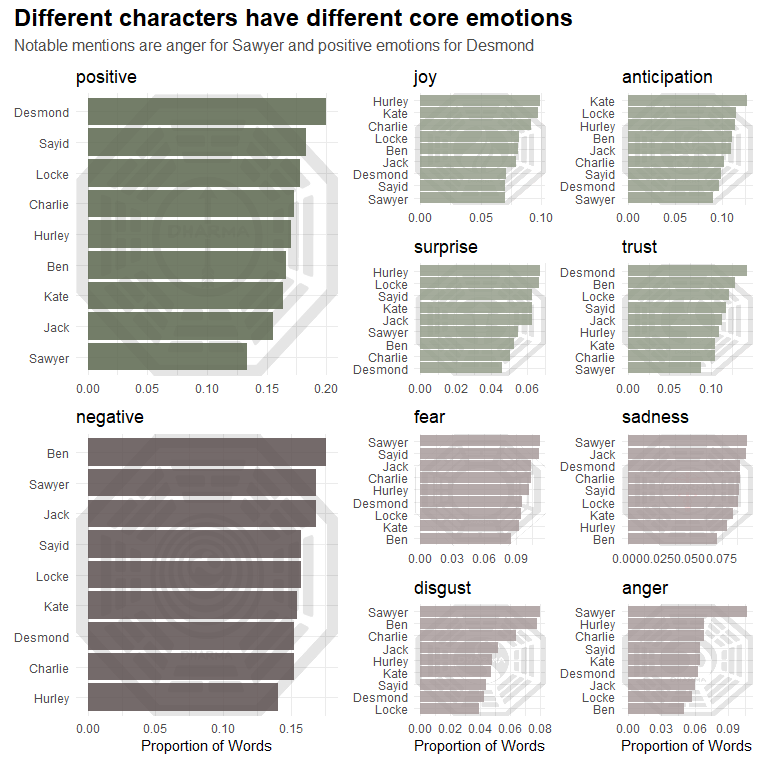
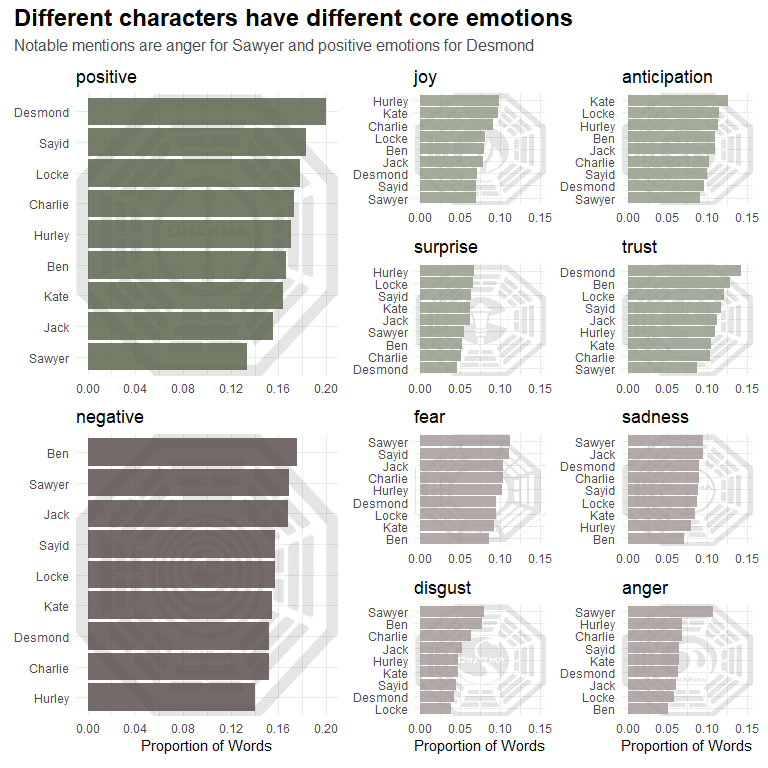
add uniform x axis to plot 5

diff --git a/README.md b/README.md
@@ -227,16 +227,19 @@ pos_color <- "#959e8b"
 neg_color_main <- "#5c5050"
 neg_color <- "#a89b9b"
 
-plot_top_lines(plot_6_data, prop, character, sentiment, "positive", "images/the_arrow_alpha_10.png", color = pos_color_main) + 
-    (plot_top_lines(plot_6_data, prop, character, sentiment, "joy", "images/the_flame_alpha_10.png", color = pos_color) + scale_x_continuous(breaks = c(0, 0.05, 0.1))) +
-    plot_top_lines(plot_6_data, prop, character, sentiment, "anticipation", "images/the_hydra_alpha_10.png", color = pos_color) +
-    plot_top_lines(plot_6_data, prop, character, sentiment, "surprise", "images/the_lamp_post_alpha_10.png", color = pos_color) +
-    plot_top_lines(plot_6_data, prop, character, sentiment, "trust", "images/the_looking_glass_alpha_10.png", color = pos_color) +
-    plot_top_lines(plot_6_data, prop, character, sentiment, "negative", "images/the_orchid_alpha_10.png", "Proportion of Words", color = neg_color_main) +
-    plot_top_lines(plot_6_data, prop, character, sentiment, "fear", "images/the_pearl_alpha_10.png", color = neg_color) +
-    plot_top_lines(plot_6_data, prop, character, sentiment, "sadness", "images/the_staff_alpha_10.png", color = neg_color) +
-    plot_top_lines(plot_6_data, prop, character, sentiment, "disgust", "images/the_swan_alpha_10.png", "Proportion of Words", color = neg_color) +
-        plot_top_lines(plot_6_data, prop, character, sentiment, "anger", "images/the_tempest_alpha_10.png", "Proportion of Words", color = neg_color) +
+s_main  <- scale_x_continuous(breaks = c(0, 0.04, 0.08, 0.12, 0.16, 0.2), limits = c(0, 0.2))
+s <- scale_x_continuous(breaks = c(0, 0.05, 0.1, 0.15), limits = c(0, 0.15))
+
+(plot_top_lines(plot_6_data, prop, character, sentiment, "positive", "images/the_arrow_alpha_10.png", color = pos_color_main) + s_main) + 
+    (plot_top_lines(plot_6_data, prop, character, sentiment, "joy", "images/the_flame_alpha_10.png", color = pos_color) + s) +
+    (plot_top_lines(plot_6_data, prop, character, sentiment, "anticipation", "images/the_hydra_alpha_10.png", color = pos_color) + s) +
+    (plot_top_lines(plot_6_data, prop, character, sentiment, "surprise", "images/the_lamp_post_alpha_10.png", color = pos_color) + s) +
+    (plot_top_lines(plot_6_data, prop, character, sentiment, "trust", "images/the_looking_glass_alpha_10.png", color = pos_color) + s) +
+    (plot_top_lines(plot_6_data, prop, character, sentiment, "negative", "images/the_orchid_alpha_10.png", "Proportion of Words", color = neg_color_main) + s_main) +
+    (plot_top_lines(plot_6_data, prop, character, sentiment, "fear", "images/the_pearl_alpha_10.png", color = neg_color) + s) +
+    (plot_top_lines(plot_6_data, prop, character, sentiment, "sadness", "images/the_staff_alpha_10.png", color = neg_color) + s) +
+    (plot_top_lines(plot_6_data, prop, character, sentiment, "disgust", "images/the_swan_alpha_10.png", "Proportion of Words", color = neg_color) + s) +
+        (plot_top_lines(plot_6_data, prop, character, sentiment, "anger", "images/the_tempest_alpha_10.png", "Proportion of Words", color = neg_color) + s) +
     plot_annotation(title = "Different characters have different core emotions",
                     subtitle = "Notable mentions are anger for Sawyer and positive emotions for Desmond") +
     plot_layout(design = layout)
